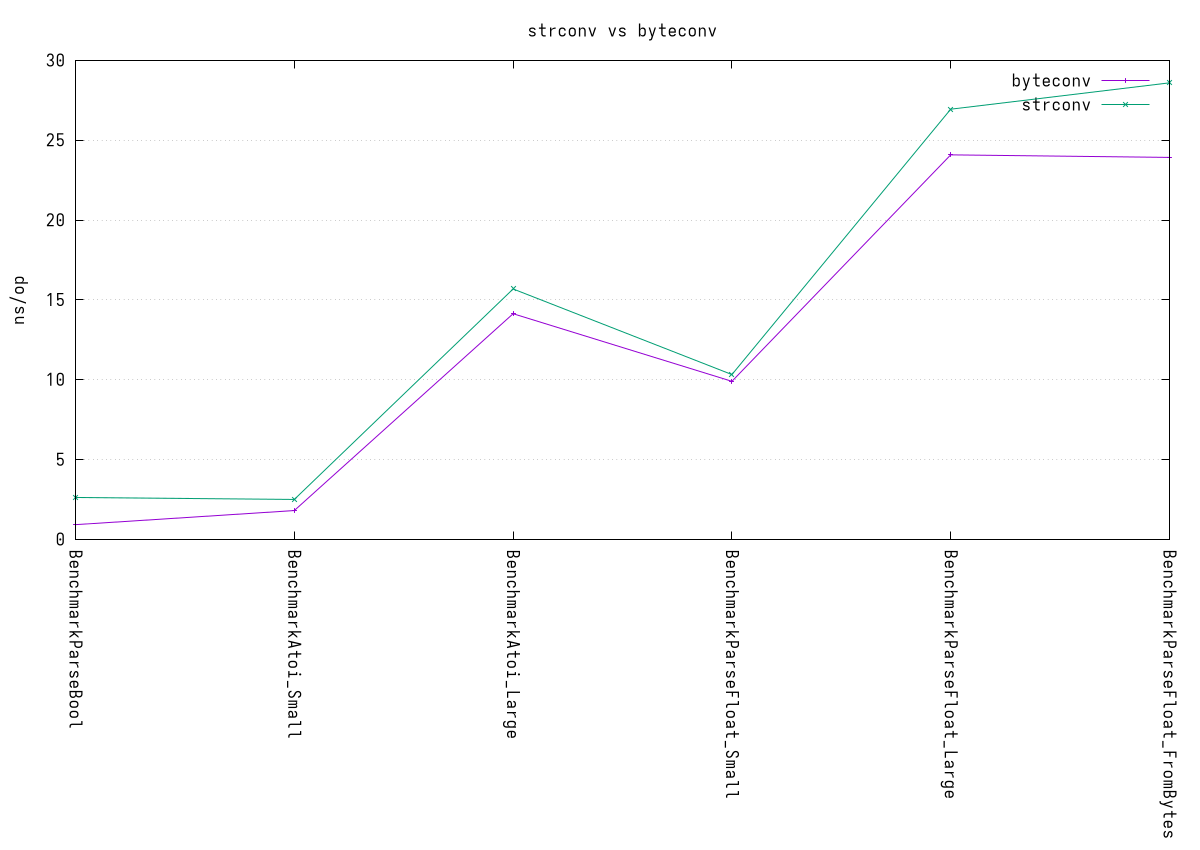
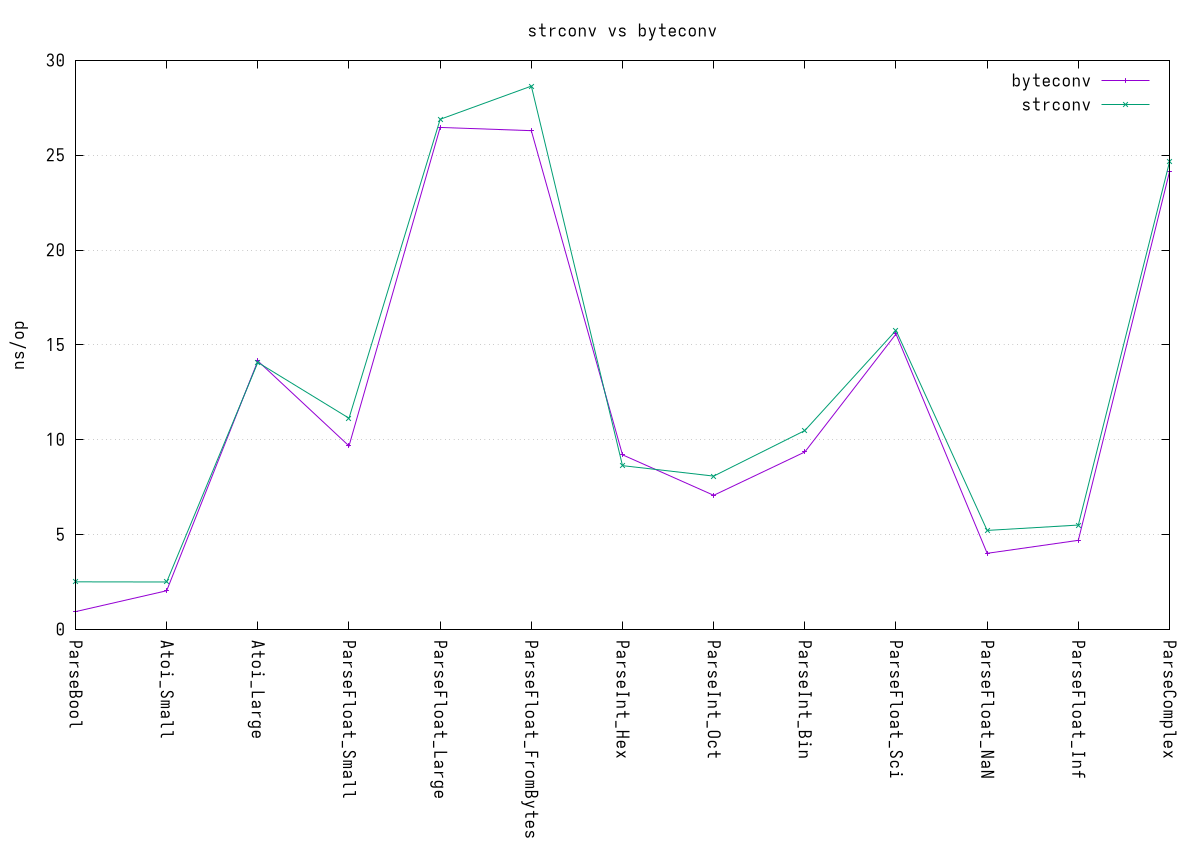
more benchmarks

diff --git a/benchmark/bench_test.go b/benchmark/bench_test.go
@@ -97,3 +97,106 @@ func BenchmarkParseFloat_FromBytes_Byteconv(b *testing.B) {
 		byteconv.ParseFloat(floatLarge, 64)
 	}
 }
+
+var (
+	intHexStr = "0x1234abcd"
+	intHex    = []byte(intHexStr)
+	intOctStr = "0o1234567"
+	intOct    = []byte(intOctStr)
+	intBinStr = "0b101010101010"
+	intBin    = []byte(intBinStr)
+
+	floatSciStr = "1.2345e-67"
+	floatSci    = []byte(floatSciStr)
+	floatNaNStr = "NaN"
+	floatNaN    = []byte(floatNaNStr)
+	floatInfStr = "+Inf"
+	floatInf    = []byte(floatInfStr)
+	
+	complexStr = "(1.234+5.678i)"
+	complexBytes = []byte(complexStr)
+)
+
+func BenchmarkParseInt_Hex_Strconv(b *testing.B) {
+	for i := 0; i < b.N; i++ {
+		strconv.ParseInt(intHexStr, 0, 64)
+	}
+}
+
+func BenchmarkParseInt_Hex_Byteconv(b *testing.B) {
+	for i := 0; i < b.N; i++ {
+		byteconv.ParseInt(intHex, 0, 64)
+	}
+}
+
+func BenchmarkParseInt_Oct_Strconv(b *testing.B) {
+	for i := 0; i < b.N; i++ {
+		strconv.ParseInt(intOctStr, 0, 64)
+	}
+}
+
+func BenchmarkParseInt_Oct_Byteconv(b *testing.B) {
+	for i := 0; i < b.N; i++ {
+		byteconv.ParseInt(intOct, 0, 64)
+	}
+}
+
+func BenchmarkParseInt_Bin_Strconv(b *testing.B) {
+	for i := 0; i < b.N; i++ {
+		strconv.ParseInt(intBinStr, 0, 64)
+	}
+}
+
+func BenchmarkParseInt_Bin_Byteconv(b *testing.B) {
+	for i := 0; i < b.N; i++ {
+		byteconv.ParseInt(intBin, 0, 64)
+	}
+}
+
+func BenchmarkParseFloat_Sci_Strconv(b *testing.B) {
+	for i := 0; i < b.N; i++ {
+		strconv.ParseFloat(floatSciStr, 64)
+	}
+}
+
+func BenchmarkParseFloat_Sci_Byteconv(b *testing.B) {
+	for i := 0; i < b.N; i++ {
+		byteconv.ParseFloat(floatSci, 64)
+	}
+}
+
+func BenchmarkParseFloat_NaN_Strconv(b *testing.B) {
+	for i := 0; i < b.N; i++ {
+		strconv.ParseFloat(floatNaNStr, 64)
+	}
+}
+
+func BenchmarkParseFloat_NaN_Byteconv(b *testing.B) {
+	for i := 0; i < b.N; i++ {
+		byteconv.ParseFloat(floatNaN, 64)
+	}
+}
+
+func BenchmarkParseFloat_Inf_Strconv(b *testing.B) {
+	for i := 0; i < b.N; i++ {
+		strconv.ParseFloat(floatInfStr, 64)
+	}
+}
+
+func BenchmarkParseFloat_Inf_Byteconv(b *testing.B) {
+	for i := 0; i < b.N; i++ {
+		byteconv.ParseFloat(floatInf, 64)
+	}
+}
+
+func BenchmarkParseComplex_Strconv(b *testing.B) {
+	for i := 0; i < b.N; i++ {
+		strconv.ParseComplex(complexStr, 128)
+	}
+}
+
+func BenchmarkParseComplex_Byteconv(b *testing.B) {
+	for i := 0; i < b.N; i++ {
+		byteconv.ParseComplex(complexBytes, 128)
+	}
+}

diff --git a/README.md b/README.md
@@ -10,6 +10,8 @@ Parsing data types from `[]byte` payloads (such as those returned by network rea
 
 `byteconv` solves this problem by providing a 1-to-1 equivalent of the standard `strconv` package that operates natively on `[]byte`. It eliminates string allocations entirely while remaining highly optimized.
 
+> **Note**: `byteconv` only implements `[]byte -> x` parsing functions (like `ParseFloat`, `Atoi`). It does **not** reimplement the `x -> []byte` formatting functions. The standard library's `strconv` already supplies zero-allocation byte-append functions (like `strconv.AppendFloat`, `strconv.AppendInt`). It is highly recommended to continue using those standard library functions for formatting to byte slices.
+
 ## Installation
 
 ```sh
@@ -57,6 +59,8 @@ func main() {
 ## Performance
 
 The entire parsing surface (e.g., `Atoi`, `ParseInt`, `ParseFloat`, `ParseBool`) achieves **0 allocs/op** and executes in just a few nanoseconds, matching or outperforming standard library equivalents without requiring string conversions.
+
+Because `byteconv` skips the `string(bytes)` cast, it effectively saves allocations on dynamically retrieved byte slices and avoids overhead. Below is a gnuplot showcasing the performance difference between standard lib casting and natively parsing bytes with `byteconv`.
 
 ![img](benchmark/benchmark.png)
 
